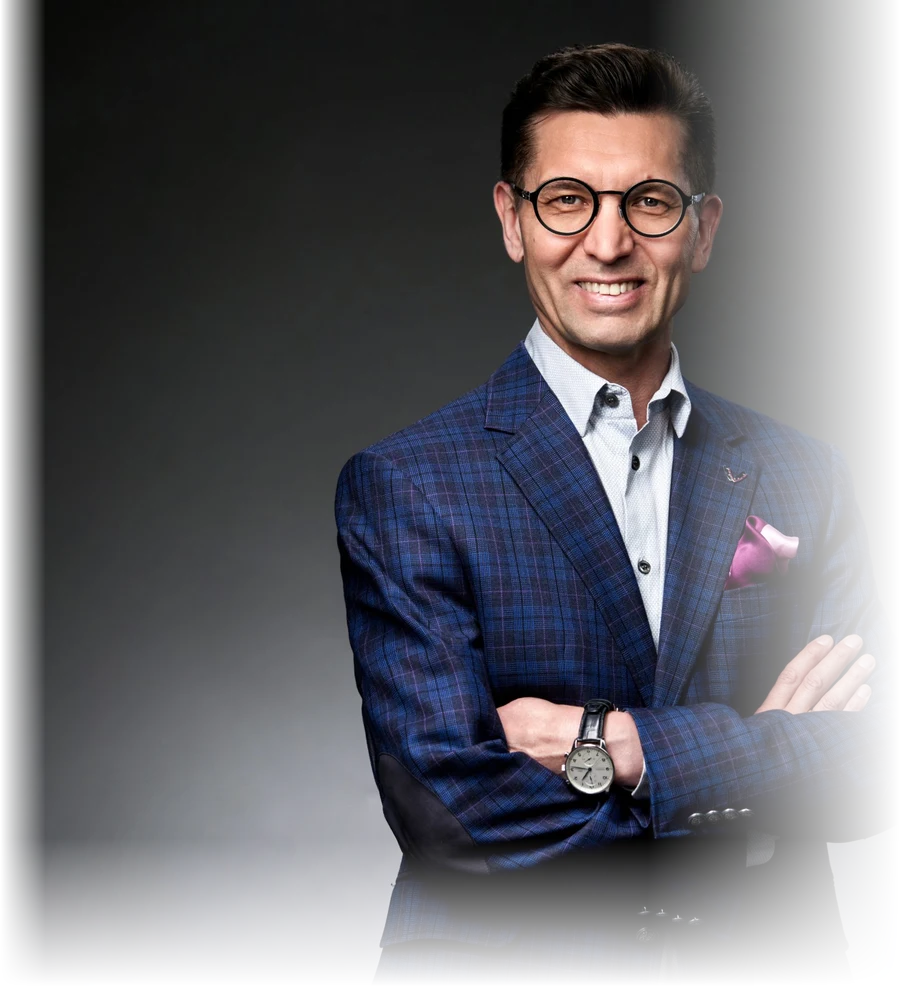
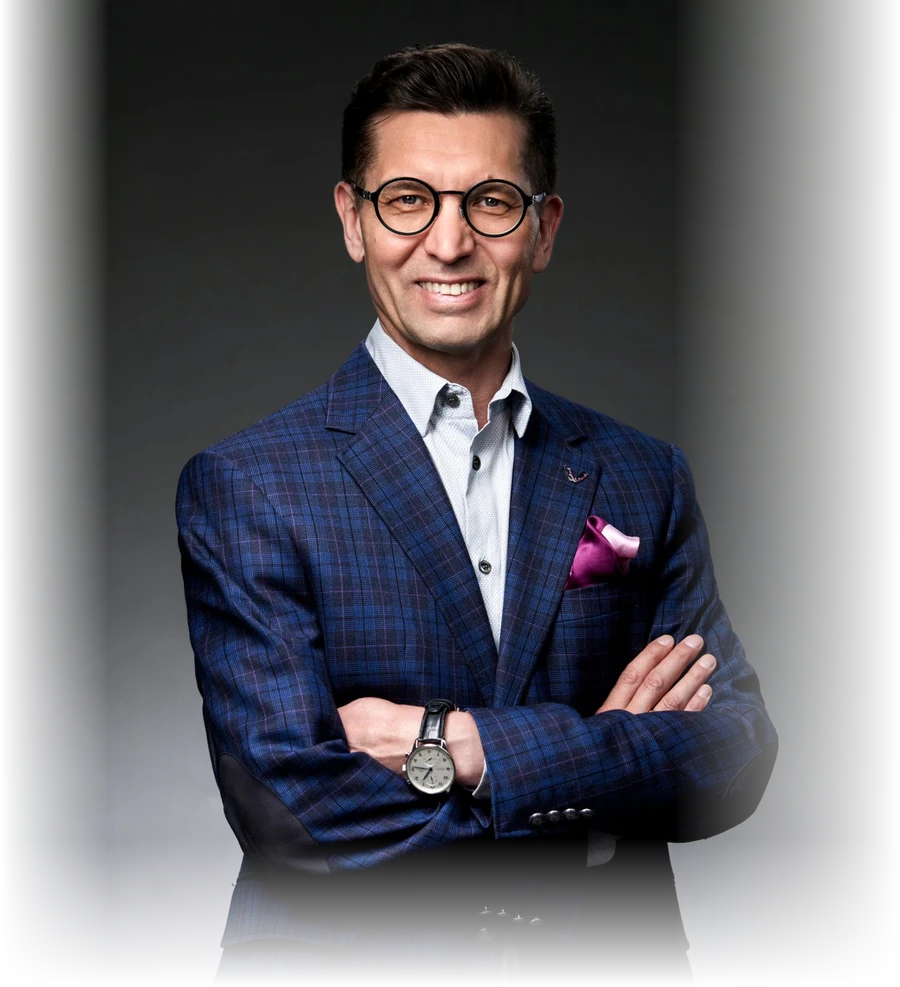
Правки сайта: цифры, тексты, Школа (3-й поток, лист ожидания), фото по центру лица, без Сигарного клуба
Claude-Session: https://claude.ai/code/session_01KDfoHpfMkfXwFzRtU5VQr1

diff --git a/index.html b/index.html
@@ -65,7 +65,7 @@ header{position:sticky;top:0;z-index:20;background:rgba(35,35,37,.92);backdrop-f
 .hero-text{position:relative;z-index:1;max-width:min(640px,56%)}
 .hero h1{font-size:clamp(34px,5.2vw,68px);font-weight:800;max-width:15ch}
 .events-sec{position:relative;overflow:hidden}
-.events-ph{position:absolute;left:0;top:0;height:100%;width:min(40%,620px);object-fit:cover;object-position:100% 4%;pointer-events:none}
+.events-ph{position:absolute;left:0;top:0;height:100%;width:min(40%,620px);object-fit:cover;object-position:50% 4%;pointer-events:none}
 .events-body{position:relative;z-index:1;margin-left:min(38%,560px)}
 .events-body .events{grid-template-columns:1fr}
 .events-cap{position:absolute;left:clamp(20px,3vw,48px);bottom:clamp(20px,3vw,40px);z-index:1;font-size:14px;color:var(--muted)}
@@ -267,9 +267,9 @@ footer img{height:36px;width:auto}
   <div class="wrap">
     <div class="stats">
       <div class="card"><div class="num">72 ч</div><p>от звонка собственника до выхода менеджера на проект</p></div>
-      <div class="card"><div class="num">15+</div><p>лет управленческого опыта у каждого интерима АИМ</p></div>
-      <div class="card"><div class="num">9–12</div><p>месяца длится проект: решил задачу — передал дела</p></div>
-      <div class="card"><div class="num">1:5</div><p>5 рублей на каждый вложенный рубль в интерима</p></div>
+      <div class="card"><div class="num">15+ лет</div><p>управленческого опыта у каждого интерима АИМ</p></div>
+      <div class="card"><div class="num">9–12 мес</div><p>длится проект: решил задачу — передал дела</p></div>
+      <div class="card"><div class="num">ROI 1:5</div><p>5 рублей на каждый вложенный рубль в интерима</p></div>
     </div>
   </div>
 </section>
@@ -279,18 +279,13 @@ footer img{height:36px;width:auto}
   <div class="events-cap"><b>Ильгиз Валинуров</b></div>
   <div class="wrap">
    <div class="events-body">
-    <div class="eyebrow">Мероприятия АИМ</div>
+    <div class="eyebrow">Где увидеться?</div>
     <h2>Приходите знакомиться</h2>
     <div class="events">
       <!--EVENTS-->
       <div class="card ev reveal">
         <div class="when"><span class="pill a">19 ноября</span><span class="pill">Москва</span></div>
         <h3>Бизнес-завтрак &quot;Интерим, как следующая ступень карьерной лестницы&quot;. Только 15 человек.</h3>
-        <a class="btn" href="https://t.me/AndreyAFomin" target="_blank" rel="noopener">Узнать подробнее</a>
-      </div>
-      <div class="card ev reveal">
-        <div class="when"><span class="pill a">19 ноября</span><span class="pill">Москва</span></div>
-        <h3>Сигарный клуб, 20к стандарт</h3>
         <a class="btn" href="https://t.me/AndreyAFomin" target="_blank" rel="noopener">Узнать подробнее</a>
       </div>
       <div class="card ev reveal">
@@ -390,7 +385,7 @@ footer img{height:36px;width:auto}
         <ul class="ticks">
           <li><div><b>Проверенный пул</b><span>Только топ-менеджеры с опытом 15+ лет и реальными кейсами в цифрах</span></div></li>
           <li><div><b>Оплата за результат</b><span>Цели, сроки и KPI фиксируются в контракте до старта</span></div></li>
-          <li><div><b>Без держания за кресло</b><span>Интериму не нужно «закрепиться» — он говорит собственнику правду</span></div></li>
+          <li><div><b>Без держания за кресло</b><span>Интериму не нужно закрепиться — он говорит собственнику правду</span></div></li>
           <li><div><b>Юридически чисто</b><span>Понятный интерим-контракт, полномочия и порядок выхода из проекта</span></div></li>
         </ul>
         <a class="btn" style="margin-top:26px" href="https://t.me/AndreyAFomin" target="_blank" rel="noopener">Обсудить задачу с основателем</a>
@@ -413,7 +408,6 @@ footer img{height:36px;width:auto}
         <div class="card"><div class="num">100+</div><p>млрд ₽ выручки бизнеса под управлением</p></div>
         <div class="card"><div class="num">4</div><p>страны интерим-проектов: Россия, Словакия, Германия, Сербия</p></div>
       </div>
-      <blockquote>«Обучение окупается за первую неделю интерим-проекта» — Андрей Фомин</blockquote>
       <ul class="ticks" style="margin-top:26px">
         <li><div><b>Закрытый пул проектов</b><span>Проекты сначала уходят членам АИМ и только потом — в открытый доступ</span></div></li>
         <li><div><b>Поддержка на проекте</b><span>Юридическая и маркетинговая помощь, разборы кейсов, сообщество экспертов</span></div></li>

diff --git a/school/index.html b/school/index.html
@@ -241,7 +241,7 @@ footer img{height:36px;width:auto}
       <li><a href="../#team">Команда</a></li>
       <li><a href="#contacts">Контакты</a></li>
     </ul>
-    <a class="btn" href="https://t.me/AndreyAFomin" target="_blank" rel="noopener">Записаться в Школу</a>
+    <a class="btn" href="https://t.me/AndreyAFomin" target="_blank" rel="noopener">Лист ожидания</a>
   </div>
 </header>
 <main id="top">
@@ -250,11 +250,11 @@ footer img{height:36px;width:auto}
     <img class="hero-bg" src="../assets/school_hero.webp" alt="Андрей Фомин выступает на форуме «Топ-Менеджер»">
     <div class="wrap" style="width:100%">
       <div class="hero-text">
-        <div class="eyebrow">Школа интерим-менеджеров · Поток 2 · старт 15 октября</div>
+        <div class="eyebrow">Школа интерим-менеджеров · Старт третьего потока 25 января 2027 года</div>
         <h1 style="margin-top:16px">Вы переросли найм. <em>Пора продавать результат, а не время</em></h1>
         <p class="lead">Первая в России Школа интерим-менеджеров: 7 недель, 14 живых встреч с практиками. Без отрыва от работы — 2 вечера в неделю онлайн.</p>
         <div class="cta-row">
-          <a class="btn" href="https://t.me/AndreyAFomin" target="_blank" rel="noopener">Записаться в Школу</a>
+          <a class="btn" href="https://t.me/AndreyAFomin" target="_blank" rel="noopener">Записаться в лист ожидания</a>
           <a class="btn ghost" href="#program">Программа</a>
         </div>
       </div>
@@ -318,17 +318,17 @@ footer img{height:36px;width:auto}
       <li class="final">Экзамен: защита собственного кейса</li>
     </ol>
 
-    <div style="display:flex;flex-wrap:wrap;align-items:center;gap:18px;margin-top:28px"><a class="btn" href="https://t.me/AndreyAFomin" target="_blank" rel="noopener">Записаться в Школу</a><p class="small">Группа — до 15 человек. Напишите «ШКОЛА» в Telegram — пришлём программу и даты ближайшего потока.</p></div>
+    <div style="display:flex;flex-wrap:wrap;align-items:center;gap:18px;margin-top:28px"><a class="btn" href="https://t.me/AndreyAFomin" target="_blank" rel="noopener">Записаться в лист ожидания</a><p class="small">Группа — до 15 человек. Напишите в Telegram — пришлём программу и сообщим, когда откроется набор.</p></div>
   </div>
 </section>
 
 <section style="padding-top:0">
   <div class="wrap">
     <div class="card ev reveal" style="background:var(--accent);color:var(--accent-ink)">
-      <div class="when"><span class="pill" style="background:var(--accent-ink);color:var(--accent)">15 октября · 19:00</span><span class="pill" style="background:rgba(30,30,32,.12);color:var(--accent-ink)">Онлайн</span></div>
-      <h3>Старт второго потока Школы интеримов</h3>
-      <p>Первая живая встреча: знакомство с тренерами и введение в программу. Мест в группе — до 15.</p>
-      <a class="btn" style="background:var(--accent-ink);color:var(--fg);border-color:var(--accent-ink)" href="https://t.me/AndreyAFomin" target="_blank" rel="noopener">Занять место в потоке</a>
+      <div class="when"><span class="pill" style="background:var(--accent-ink);color:var(--accent)">25 января 2027</span><span class="pill" style="background:rgba(30,30,32,.12);color:var(--accent-ink)">Онлайн</span></div>
+      <h3>Старт третьего потока Школы интеримов</h3>
+      <p>Первая живая встреча: знакомство с тренерами и введение в программу. Мест в группе — до 15. Запишитесь в лист ожидания, и мы напишем, когда откроется набор.</p>
+      <a class="btn" style="background:var(--accent-ink);color:var(--fg);border-color:var(--accent-ink)" href="https://t.me/AndreyAFomin" target="_blank" rel="noopener">Записаться в лист ожидания</a>
     </div>
   </div>
 </section>
@@ -374,7 +374,7 @@ footer img{height:36px;width:auto}
     <div class="card reveal">
       <div class="eyebrow">Контакты</div>
       <h2>Хотите в Школу? Напишите — пришлём программу</h2>
-      <p class="small">Напишите «ШКОЛА» в Telegram — пришлём программу, ответим на вопросы и закрепим место в ближайшем потоке.</p>
+      <p class="small">Напишите в Telegram — пришлём программу, ответим на вопросы и запишем в лист ожидания третьего потока.</p>
       <ul class="clist">
         <li><small>Telegram</small><a href="https://t.me/AndreyAFomin" target="_blank" rel="noopener">@AndreyAFomin</a></li>
         <li><small>Телефон</small><a href="tel:+79119711519">+7 911 971 15 19</a></li>
